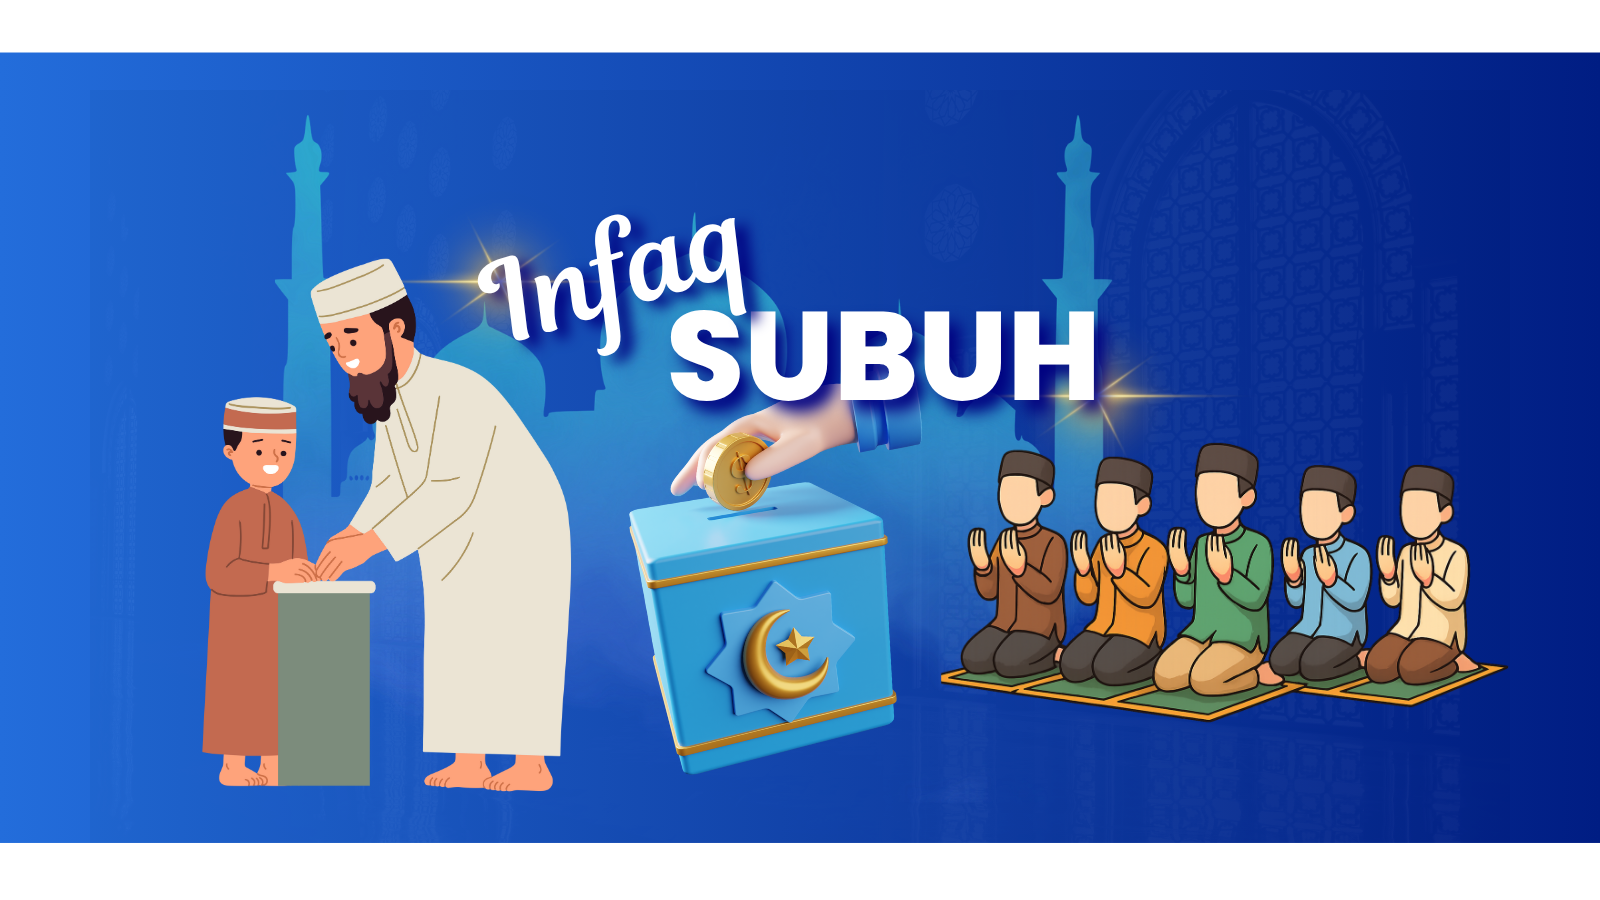
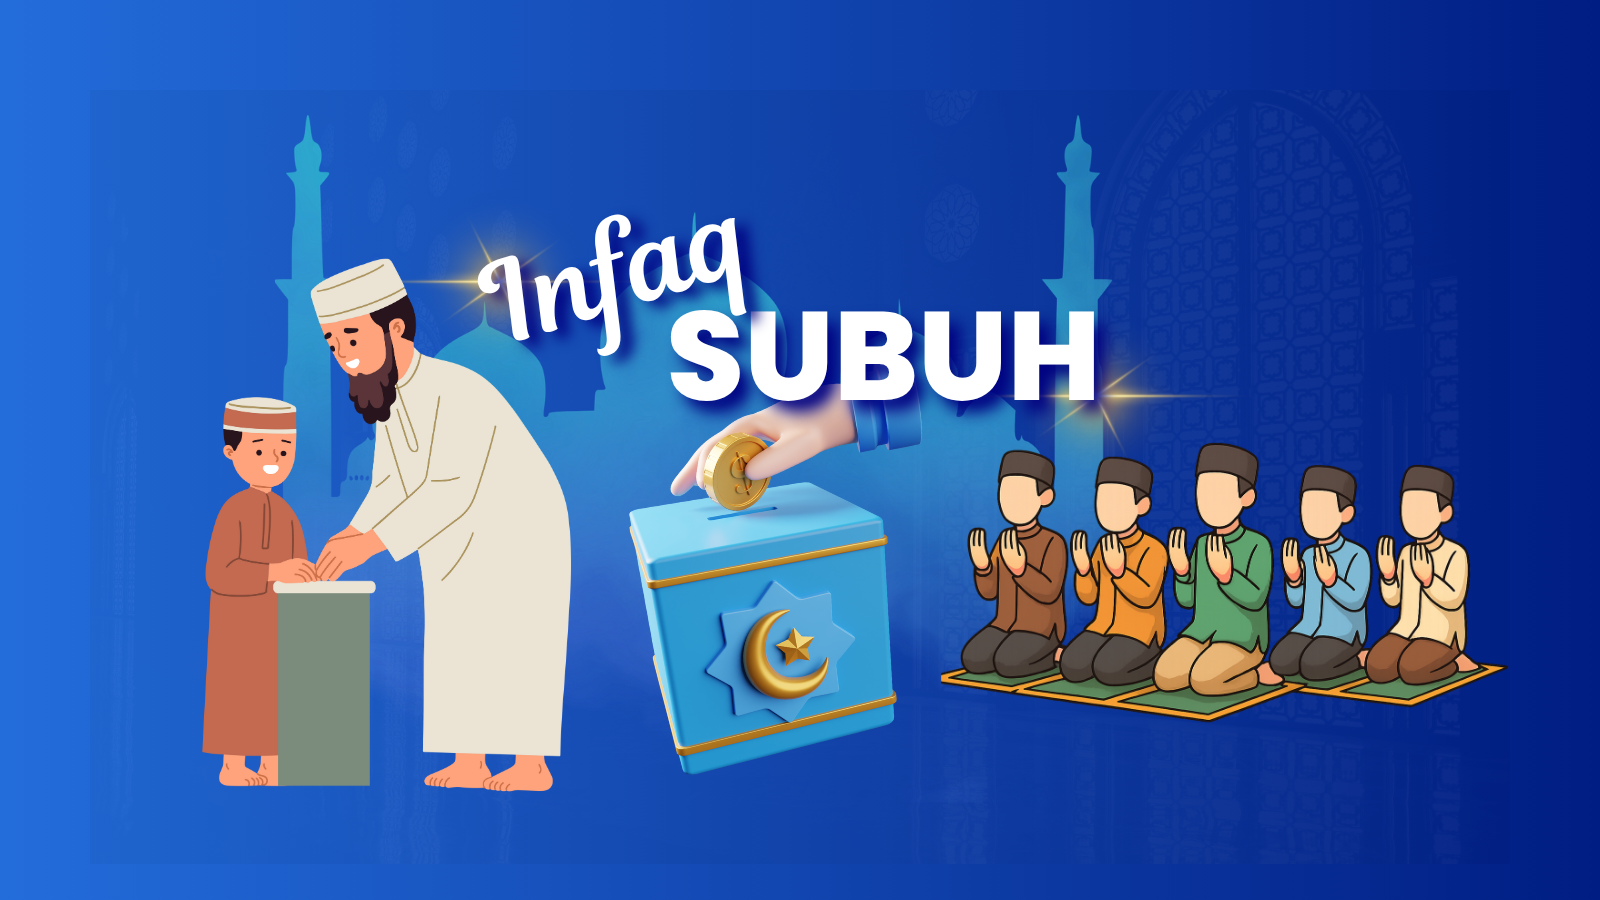
tukar gambau

Changed region(s): [[0.0, 0.9333, 1.0, 1.0], [0.0, 0.0, 1.0, 0.0622]]

diff --git a/lib/pages/homepage/homepage.dart b/lib/pages/homepage/homepage.dart
@@ -45,7 +45,7 @@ class _HomepageState extends State<Homepage> {
   // Carousel images moved to class-level so timers can access length
   final List<String> _carouselImages = [
     'assets/images/KP5R3.png', //Kempen Potong Lima
-    'assets/images/infak-subuh.png', //Infak Subuh
+    'assets/images/IST2.png', //Infak Subuh
     'assets/images/SPAT1.png', //Ifak Set Persalihan Akhir
     'assets/images/WQT1.png', //Waqaf Quran
   ];

diff --git a/lib/pages/program/program_page.dart b/lib/pages/program/program_page.dart
@@ -38,7 +38,7 @@ class _ProgramPageState extends State<ProgramPage> {
       'date': '01/09/2025',
       'icon': Icons.wb_sunny,
       'gradient': [Color(0xFF6A11CB), Color(0xFF2575FC)],
-      'image': 'assets/images/infak-subuh.png',
+      'image': 'assets/images/IST2.png',
       'url': 'https://waqaffelda.waqafer.com.my/order/form/40',
     },
     {
